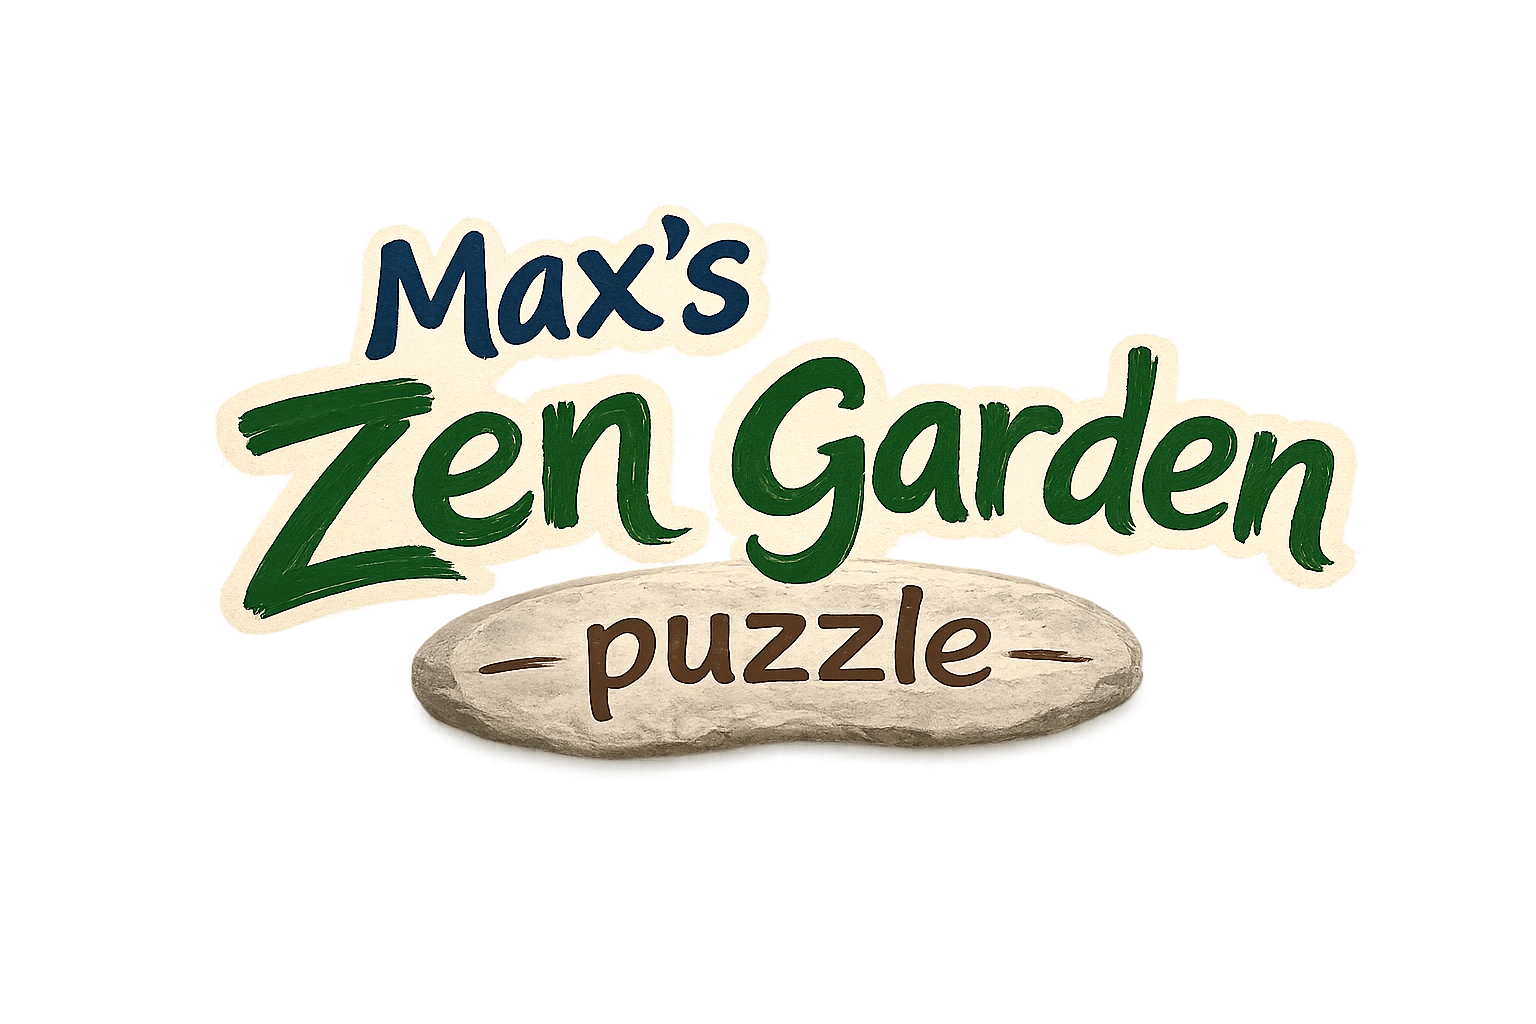
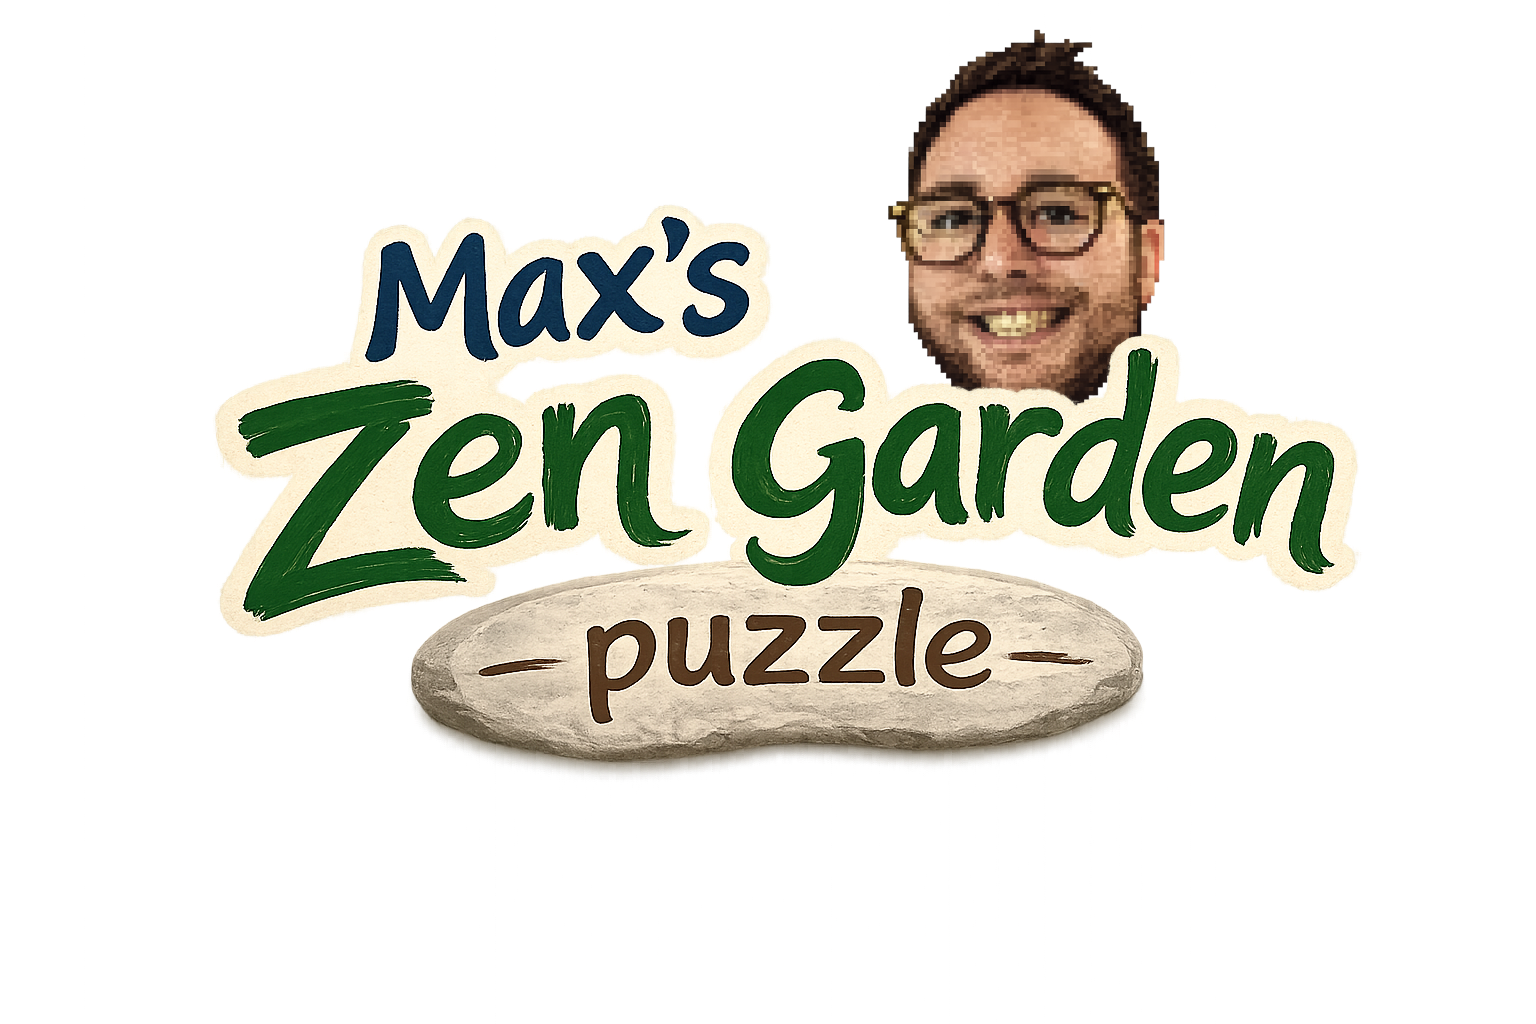
Update title screen and hint count

diff --git a/index.html b/index.html
@@ -503,7 +503,7 @@
       let animationTime = 0;
       let hintMove = null;
       let hintTimer = 0;
-      let hintsLeft = 3;
+      let hintsLeft = 5;
       let easyMode = false;
       let resetRecommended = false;
       let positionHighlight = false;
@@ -964,7 +964,7 @@
         activeStroke = [];
         hintMove = null;
         easyMode = isEasyMode();
-        hintsLeft = 3;
+        hintsLeft = 5;
         resetRecommended = false;
         positionHighlight = false;
         rakeVisible = true;
@@ -1137,6 +1137,8 @@
 
       function hintsLeftText() {
         if (easyMode) return "unlimited hints.";
+        if (hintsLeft === 4) return "four hints left.";
+        if (hintsLeft === 3) return "three hints left.";
         if (hintsLeft === 2) return "two hints left.";
         if (hintsLeft === 1) return "one hint left.";
         return "no hints left.";